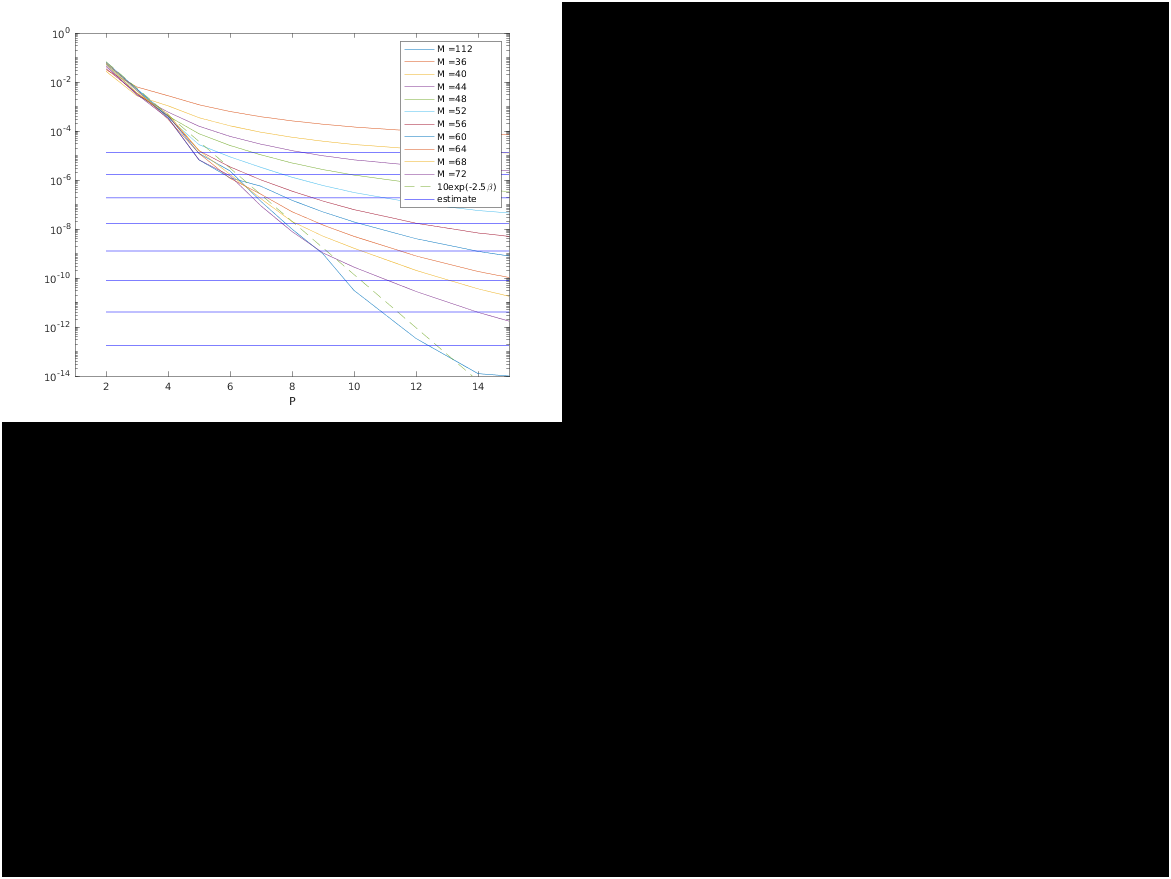
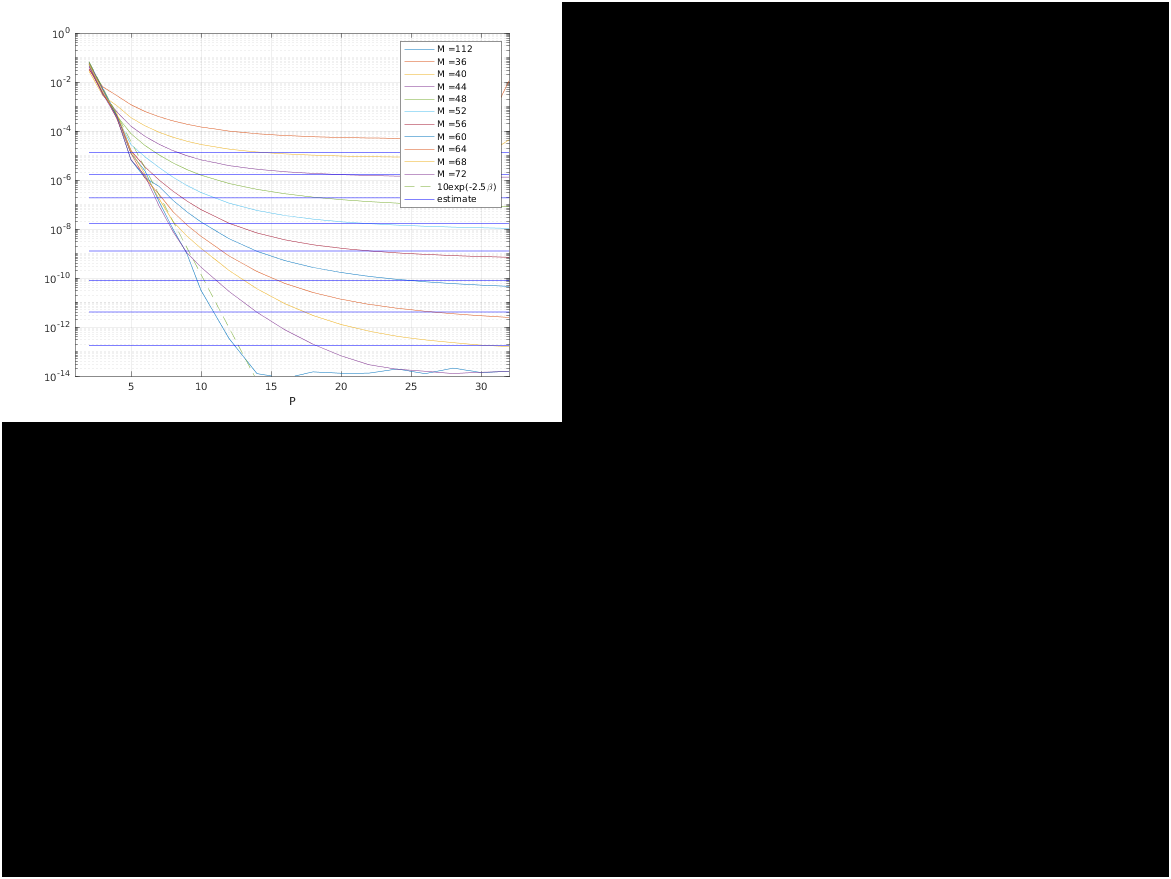
imgs

diff --git a/SE_Stokes_run/SE3P_Stokes/P_error.m b/SE_Stokes_run/SE3P_Stokes/P_error.m
@@ -85,10 +85,10 @@ end
 str = [str,'estimate'];
 legend(str)
 xlabel('P')
-xlim([1,15])
+xlim([1,32])
 ylim([10^-14,1])
-
-exportgraphics(gcf,'error_P.png')
 grid on
+exportgraphics(gcf,'error_P.png')
+xlim([1,15])
 exportgraphics(gcf,'error_P_zoom.png')
 
